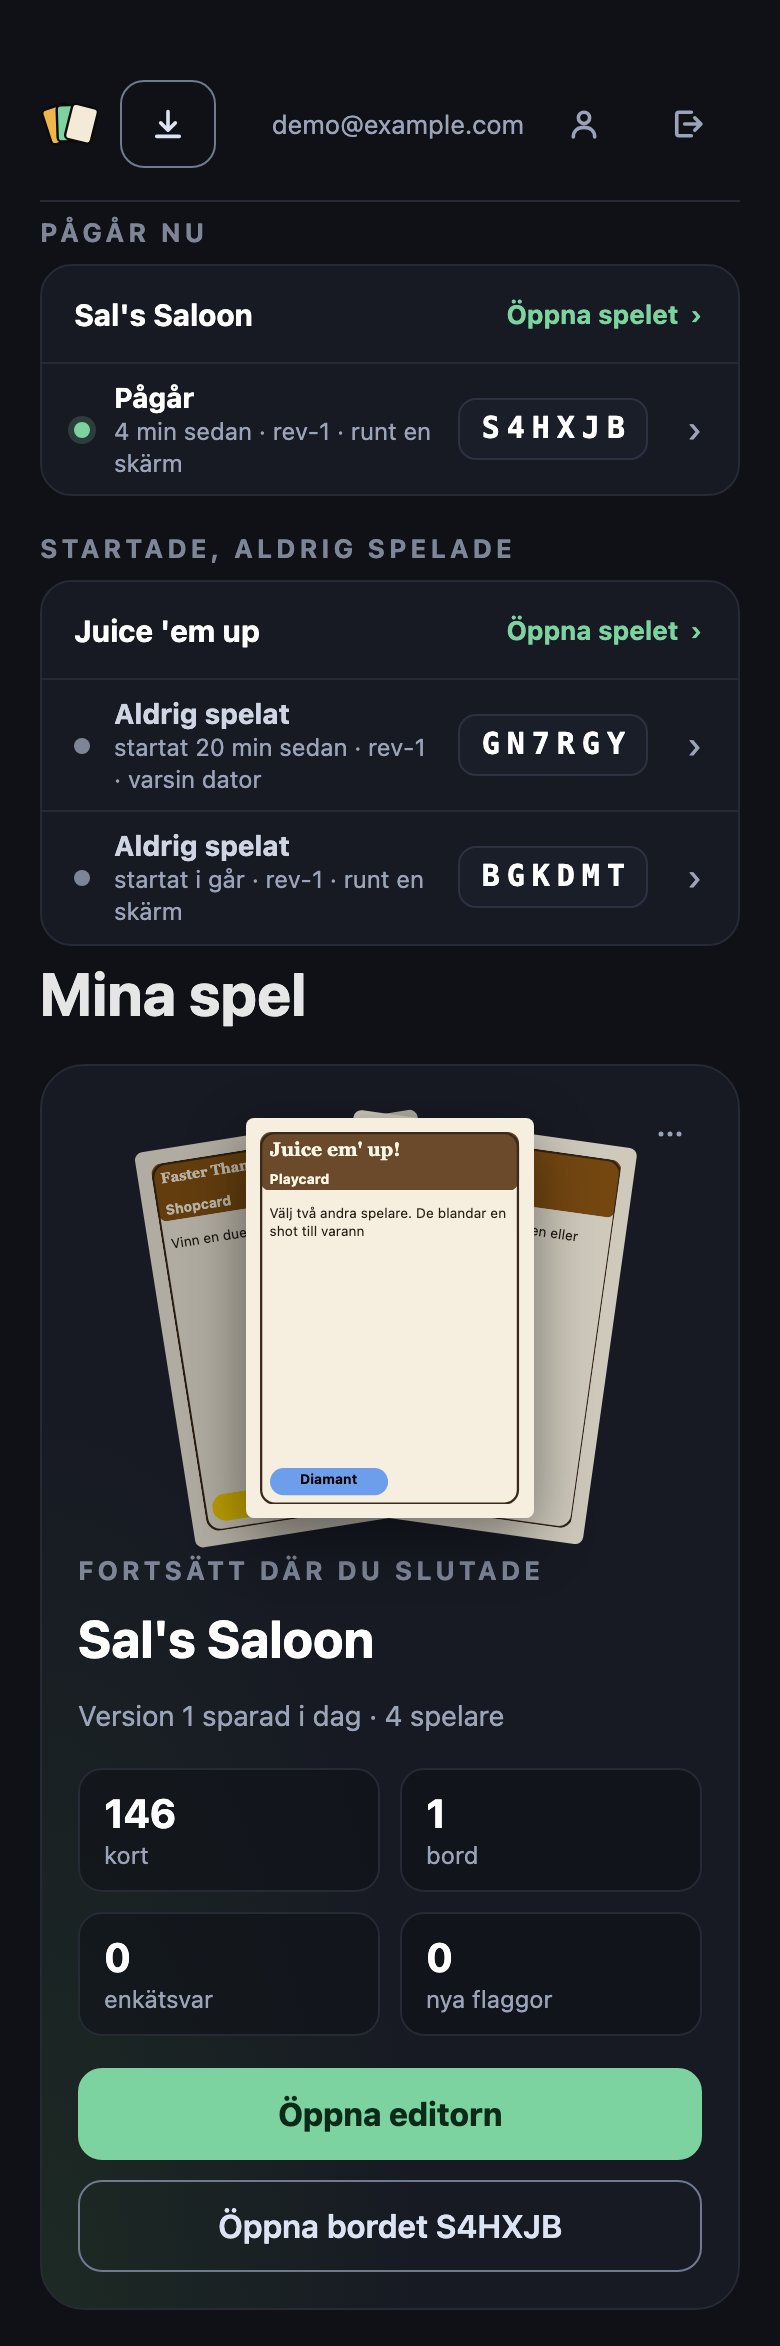
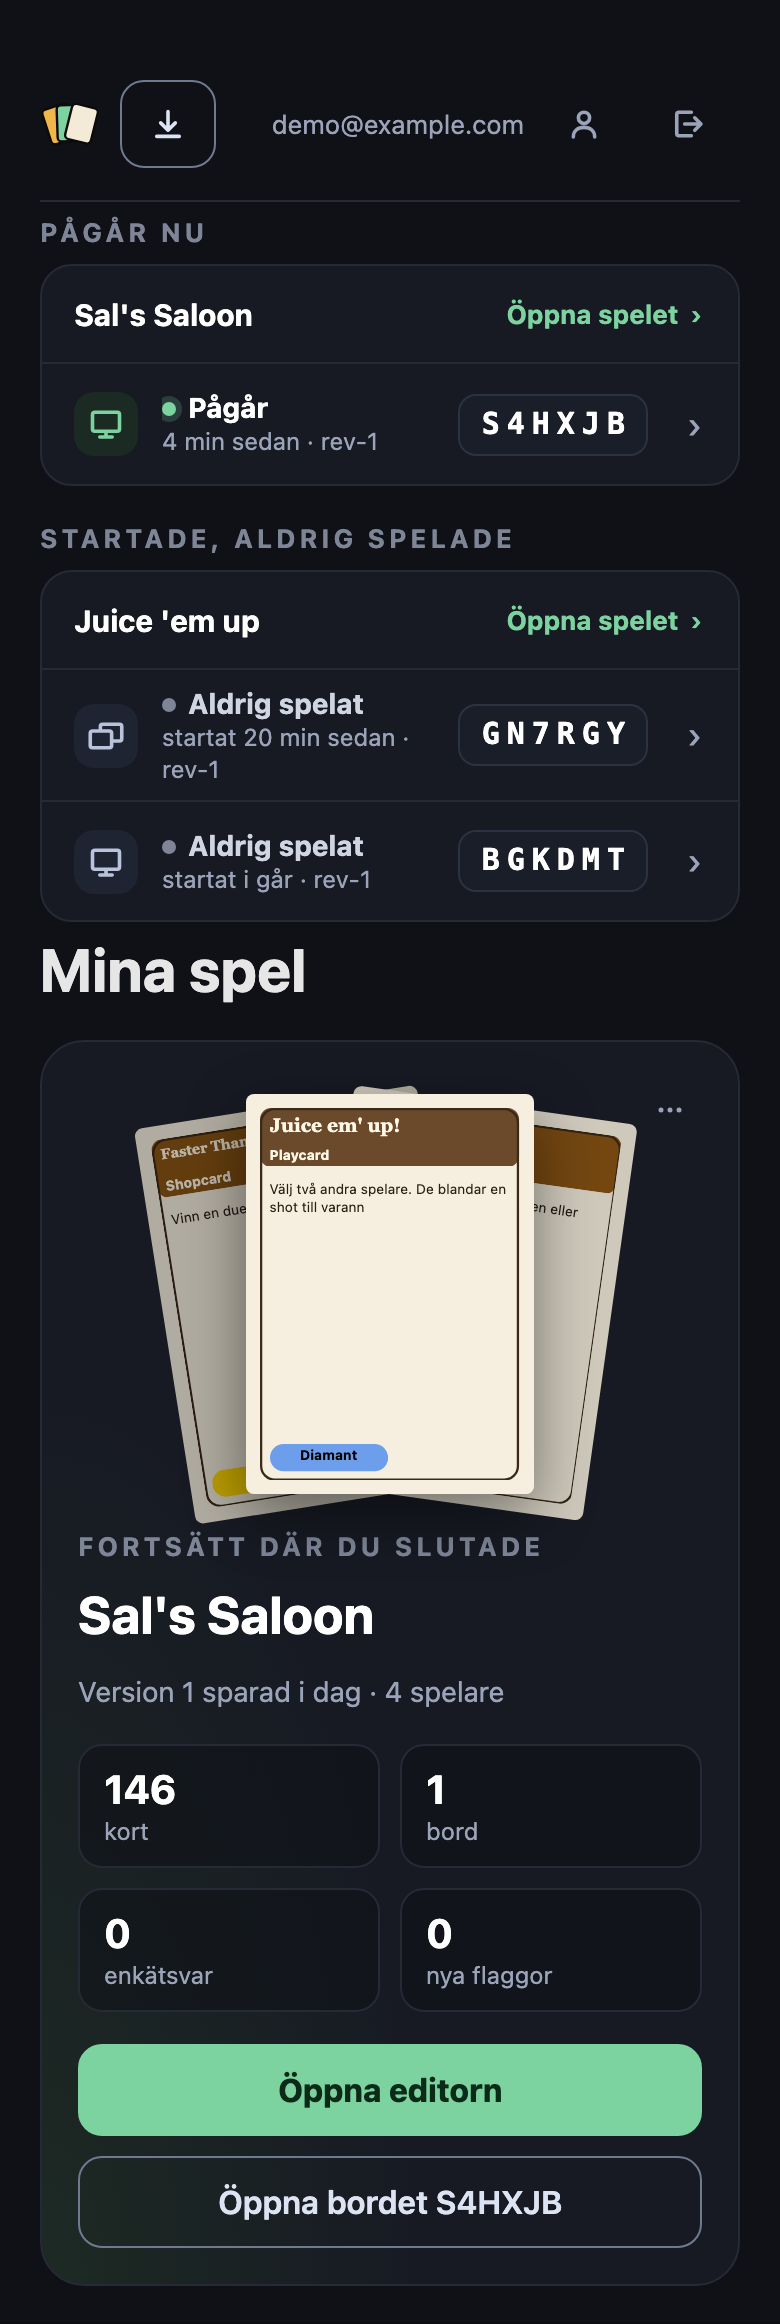
Beslut: «Pågår nu»-bandet grupperas per spel, med en ikon för hur man sitter

diff --git a/docs/ux-audits/2026-10-26-pagar-nu-bandet/prototyper/index.html b/docs/ux-audits/2026-10-26-pagar-nu-bandet/prototyper/index.html
@@ -93,7 +93,7 @@
   .v-B .spelrad b { flex: 1 1 auto; min-width: 0; overflow: hidden; text-overflow: ellipsis; white-space: nowrap; font-size: 15px; color: #fff; }
   .v-B .spelrad a { display: inline-flex; align-items: center; gap: 6px; min-height: 40px; padding: 0 10px; border-radius: 8px; color: #7dd3a0; font-size: 13px; font-weight: 700; text-decoration: none; white-space: nowrap; }
   .v-B .spelrad a:hover { background: #1d212b; }
-  .v-B .bord { display: grid; grid-template-columns: auto minmax(0, 1fr) auto auto; align-items: center; gap: 12px; min-height: 60px; padding: 8px 10px 8px 16px; color: #fff; text-decoration: none; border-top: 1px solid #262a35; }
+  .v-B .bord { display: grid; grid-template-columns: 32px minmax(0, 1fr) auto auto; align-items: center; gap: 12px; min-height: 60px; padding: 8px 10px 8px 16px; color: #fff; text-decoration: none; border-top: 1px solid #262a35; }
   .v-B .bord:first-of-type { border-top: 0; }
   .v-B .bord:hover { background: #1d212b; }
   .v-B .bord .platta { font-size: 15px; letter-spacing: 3.5px; padding: 7px 7px 7px 11px; }
@@ -102,6 +102,10 @@
   .v-B .bord .fakta small { color: #9aa3b8; font-size: 12px; line-height: 1.3; }
   .v-B .bord .pil { color: #9aa3b8; width: 24px; text-align: center; font-size: 18px; }
   .v-B .bord[data-still] .fakta b { color: #cfd5e3; }
+  .v-B .sits { display: grid; place-items: center; width: 32px; height: 32px; border-radius: 10px; background: #1b2a22; color: #7dd3a0; }
+  .v-B .sits svg { width: 18px; height: 18px; }
+  .v-B .bord[data-still] .sits { background: #1f2433; color: #b9c3dc; }
+  .v-B .fakta b .prick { width: 7px; height: 7px; margin-right: 6px; vertical-align: 1px; }
 
   /* ── C · Beskedet ─────────────────────────────────────────────────────────────────────────── */
   .v-C .band { display: grid; gap: 10px; justify-items: center; text-align: center; padding: 16px 16px 14px; border-radius: 16px; background: #1b2a22; color: #d8ffe8; border: 1px solid #2a4034; }
@@ -135,7 +139,7 @@
 const V = {
   idag: ['Idag', '<b>Idag.</b> Namn, kod och två knappar i en grön ruta. <span class="minus">− Koden hänger fri, ingen bild, inga fakta om bordet, och två lika stora knappar gör att ingen väg är den som står redo.</span>'],
   A: ['A · Fönstret mot filten', '<b>A — ett fönster mot filten</b> (rekommenderas). Kortet öppnar med en bild av bordets form — filten, högarna, platserna — med kodplattan som TV:n skriver den och ett läge i hörnet. Spelets namn är vägen till editorn, under det bordets fakta, och <b>en</b> väg står redo: «Öppna bordet». <span class="plus">+ Samma bildspråk som hjältekortet och Bord-fliken; koden får den platta gästerna redan läser den på; ett orört bord ser orört ut.</span> <span class="minus">− Högst av de tre (≈ 200 px per bord). Bilden är bordets form ur receptet, inte dess live-läge.</span>'],
-  B: ['B · Grupperat per spel', '<b>B — borden under sitt spel.</b> Ett kort per spel: spelets namn och «Öppna spelet» på en rubrikrad, och varje bord en slank rad som i sig är vägen till bordet — läge, kod på plattan, fakta, pil. Samma form som «Väntar på dig». <span class="plus">+ Tätast (≈ 60 px per bord); två bord på ett spel säger spelets namn en gång; raden är knappen.</span> <span class="minus">− Ingen bild; ett spel med ett bord kostar ändå en rubrikrad; «Startade, aldrig spelade» blir samma kort med annat läge.</span>'],
+  B: ['B · Grupperat per spel', '<b>B — borden under sitt spel</b> (valt 2026-10-26, med ikonen). Ett kort per spel: spelets namn och «Öppna spelet» på en rubrikrad, och varje bord en slank rad som i sig är vägen till bordet — hur man sitter som ikon på egen grund (skärm på fot, eller två fönster), läge med prick, fakta, kod på plattan, pil. Samma form som «Väntar på dig». <span class="plus">+ Tätast (≈ 60 px per bord); två bord på ett spel säger spelets namn en gång; raden är knappen.</span> <span class="minus">− Ingen bild; ett spel med ett bord kostar ändå en rubrikrad; «Startade, aldrig spelade» blir samma kort med annat läge.</span>'],
   C: ['C · Beskedet', '<b>C — bandet säger det som en mening</b>, i samma gröna som kvittona («Bordet är igång. Rumskoden är …»). Läget överst, koden stor och mitt i, en mening om spelet och bordet, «Öppna bordet» över hela bredden och «Öppna spelet» som en tyst länk under. <span class="plus">+ Koden blir det man ser från andra sidan rummet; inget nytt bildspråk att bygga.</span> <span class="minus">− Centrerat och ganska högt (≈ 190 px); två bord ger två nästan likadana band; ett orört bord i grått blir en grå ruta med en stor kod.</span>'],
 }
 const W = ['1280', '1024', '390']
@@ -150,6 +154,14 @@ const BORD = [
   { spel: "Juice 'em up", kod: 'GN7RGY', rev: 'rev-1', sedan: 'startat för 20 min sedan', kort: 'startat 20 min sedan', sits: 'varsin dator', pagar: false },
   { spel: "Juice 'em up", kod: 'BGKDMT', rev: 'rev-1', sedan: 'startat i går', kort: 'startat i går', sits: 'runt en skärm', pagar: false },
 ]
+// Two glyphs on the app's 16 grid (glyphs.tsx: one 1.6 px round stroke): a screen on its stand
+// for «Runt en skärm», and two windows for «Var och en vid sin dator».
+const GLYF = {
+  screen: '<svg viewBox="0 0 16 16" aria-hidden="true"><path d="M3 2.75h10a1 1 0 0 1 1 1v6.5a1 1 0 0 1-1 1H3a1 1 0 0 1-1-1v-6.5a1 1 0 0 1 1-1zM8 11.25v2.5M5.25 13.75h5.5" fill="none" stroke="currentColor" stroke-width="1.6" stroke-linecap="round" stroke-linejoin="round"/></svg>',
+  computer: '<svg viewBox="0 0 16 16" aria-hidden="true"><path d="M2 5.75h7.5a1 1 0 0 1 1 1v5.5a1 1 0 0 1-1 1H2a1 1 0 0 1-1-1v-5.5a1 1 0 0 1 1-1zM5.5 5.75V3.75a1 1 0 0 1 1-1H14a1 1 0 0 1 1 1v5.5a1 1 0 0 1-1 1h-3.5" fill="none" stroke="currentColor" stroke-width="1.6" stroke-linecap="round" stroke-linejoin="round"/></svg>',
+}
+const SITS = { 'runt en skärm': 'screen', 'varsin dator': 'computer' }
+const SITS_ORD = { screen: 'Runt en skärm', computer: 'Var och en vid sin dator' }
 const esc = (s) => s.replace(/&/g, '&amp;').replace(/</g, '&lt;').replace(/'/g, '&#39;')
 const sektioner = () => [
   ['Pågår nu', BORD.filter((b) => b.pagar)],
@@ -177,7 +189,7 @@ function ritaB(bord) {
   for (const b of bord) perSpel.set(b.spel, [...(perSpel.get(b.spel) ?? []), b])
   return [...perSpel].map(([spel, rader]) => `<div class="grupp">
     <div class="spelrad"><b>${esc(spel)}</b><a href="#">Öppna spelet <span aria-hidden="true">›</span></a></div>
-    ${rader.map((b) => `<a class="bord" href="#" ${b.pagar ? '' : 'data-still'}><span class="prick" ${b.pagar ? '' : 'data-still'}></span><span class="fakta"><b>${b.pagar ? 'Pågår' : 'Aldrig spelat'}</b><small>${b.kort} · ${b.rev} · ${b.sits}</small></span><span class="platta">${b.kod}</span><span class="pil" aria-hidden="true">›</span></a>`).join('')}
+    ${rader.map((b) => `<a class="bord" href="#" ${b.pagar ? '' : 'data-still'}><span class="sits" title="${SITS_ORD[SITS[b.sits]]}">${GLYF[SITS[b.sits]]}<span class="offscreen">${SITS_ORD[SITS[b.sits]]}</span></span><span class="fakta"><b><span class="prick" ${b.pagar ? '' : 'data-still'}></span>${b.pagar ? 'Pågår' : 'Aldrig spelat'}</b><small>${b.kort} · ${b.rev}</small></span><span class="platta">${b.kod}</span><span class="pil" aria-hidden="true">›</span></a>`).join('')}
   </div>`).join('')
 }
 

diff --git a/docs/ux-audits/2026-10-26-pagar-nu-bandet/README.md b/docs/ux-audits/2026-10-26-pagar-nu-bandet/README.md
@@ -30,6 +30,8 @@ Fakta bandet säger i varianterna finns redan i `GET /projects/:id/sessions`: `v
   Ett kort per spel, i «Väntar på dig»:s form: spelets namn och «Öppna spelet» på en rubrikrad, och varje bord en rad som i sig är vägen till bordet, med läge, fakta, kodplatta och pil.
   Tätast, ≈ 60 px per bord, och två bord på ett spel säger spelets namn en gång.
   Ingen bild, och ett spel med ett bord kostar ändå en rubrikrad.
+  Efter beställarens val: raden leder med hur man sitter (L77) som en ikon på egen grund, i «Väntar på dig»:s form — en skärm på fot för «Runt en skärm», två fönster för «Var och en vid sin dator» — ritade på glyfernas 16-rutnät med den enda 1,6 px-linjen; orden står bara för skärmläsaren.
+  Pricken för läget flyttar in i den feta raden.
 - **C · Beskedet.**
   Bandet säger det som en mening, i kvittonas gröna: läget överst i versaler, koden stor och mitt i, «*Sal's Saloon* på rev-1, runt en skärm.», «Öppna bordet» över hela bredden och «Öppna spelet» som en tyst länk.
   Koden blir det man ser från andra sidan rummet.
@@ -42,4 +44,5 @@ Den ger bandet det som saknas, en bild och fakta, med former sidan redan har: hj
 B är det bättre valet om kolumnen ska rymma många bord, men den säger minst om varje och ser mest ut som en lista.
 C är vacker för ett bord och tröttsam för tre.
 
-Beslut: _väntar på beställaren_.
+Beslut: **B, med en ikon för hur man sitter**, beställaren 2026-10-26.
+Ikonerna är nya glyfer i `glyphs.tsx` (`screen`, `computer`); listan `GET /projects/:id/sessions` bär redan `seating`.
